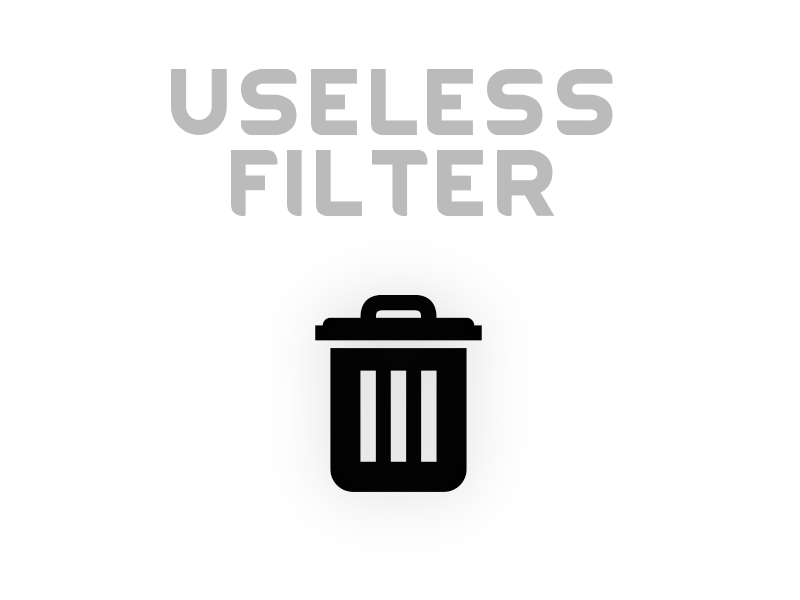
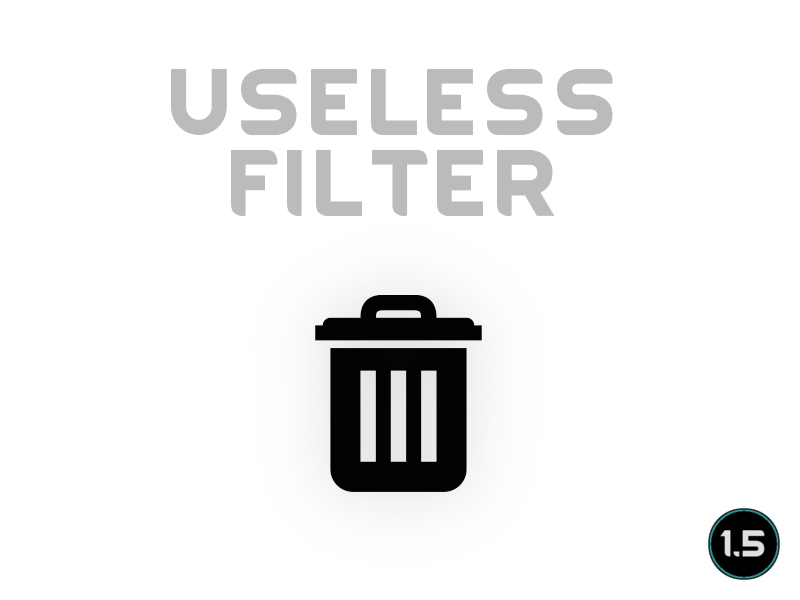
Mod updated for 1.5 and passed autotests

Changed region(s): [[0.875, 0.84, 1.0, 0.99]]

diff --git a/Source/UselessFilter/UselessFilterMod.cs b/Source/UselessFilter/UselessFilterMod.cs
@@ -30,8 +30,7 @@ internal class UselessFilterMod : Mod
     {
         instance = this;
         currentVersion =
-            VersionFromManifest.GetVersionFromModMetaData(
-                ModLister.GetActiveModWithIdentifier("Mlie.UselessFilter"));
+            VersionFromManifest.GetVersionFromModMetaData(content.ModMetaData);
     }
 
     /// <summary>

diff --git a/README.md b/README.md
@@ -1,6 +1,6 @@
 # UselessFilter
 
-![Image](https://i.imgur.com/buuPQel.png)
+![Image](https://i.imgur.com/iCj5o7O.png)
 
 
 Setting up filters for what items to destroy by smelting, burning, deconstructing, recycling etc. is always tedious.
@@ -25,23 +25,26 @@ I created this mod mostly to simplify for myself, but hopefully someone else get
 
 https://steamcommunity.com/sharedfiles/filedetails/?id=2810866437]Russian translation by proselyte223 
 
-![Image](https://i.imgur.com/O0IIlYj.png)
+![Image](https://i.imgur.com/Ds0rBAD.png)
 
 Since modding is just a hobby for me I expect no donations to keep modding. If you still want to show your support you can gift me anything from my https://store.steampowered.com/wishlist/id/Mlie]Wishlist or buy me a cup of tea.
 
-https://ko-fi.com/G2G55DDYD]![Image](https://i.imgur.com/Utx6OIH.png)
+https://ko-fi.com/G2G55DDYD]![Image](https://i.imgur.com/VWG0yff.png)
 
 
-![Image](https://i.imgur.com/PwoNOj4.png)
+![Image](https://i.imgur.com/5xwDG6H.png)
 
 
 
 -  See if the the error persists if you just have this mod and its requirements active.
 -  If not, try adding your other mods until it happens again.
--  Post your error-log using https://steamcommunity.com/workshop/filedetails/?id=818773962]HugsLib and command Ctrl+F12
+-  Post your error-log using https://steamcommunity.com/workshop/filedetails/?id=818773962]HugsLib or the standalone https://steamcommunity.com/sharedfiles/filedetails/?id=2873415404]Uploader and command Ctrl+F12
 -  For best support, please use the Discord-channel for error-reporting.
 -  Do not report errors by making a discussion-thread, I get no notification of that.
 -  If you have the solution for a problem, please post it to the GitHub repository.
+-  Use https://github.com/RimSort/RimSort/releases/latest]RimSort to sort your mods
 
 
+
+https://steamcommunity.com/sharedfiles/filedetails/changelog/2780076290]![Image](https://img.shields.io/github/v/release/emipa606/UselessFilter?label=latest%20version&style=plastic&labelColor=0070cd&color=white)
 
